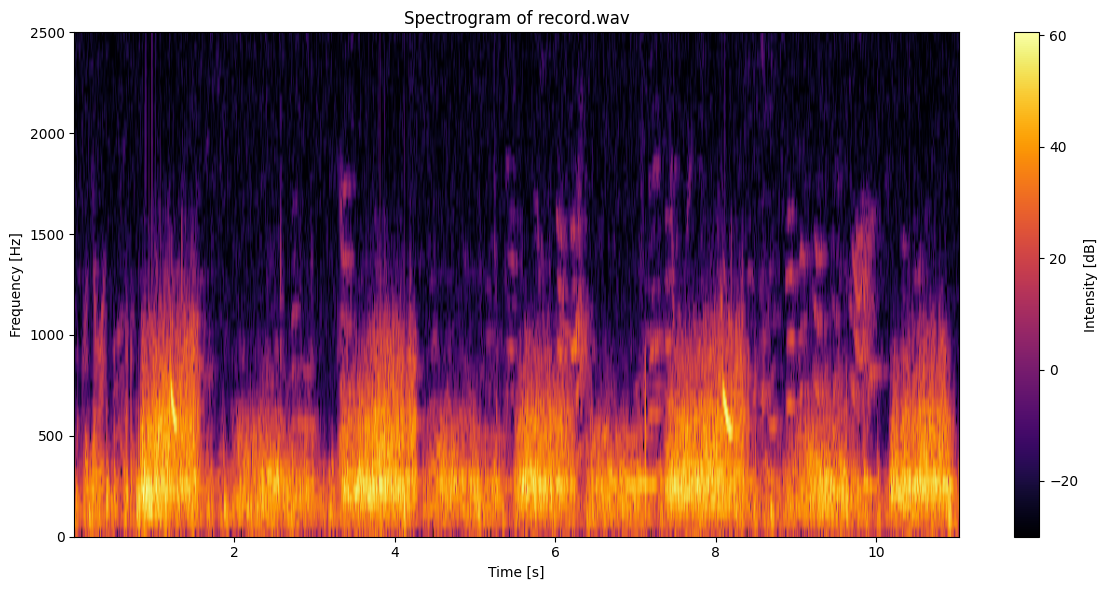
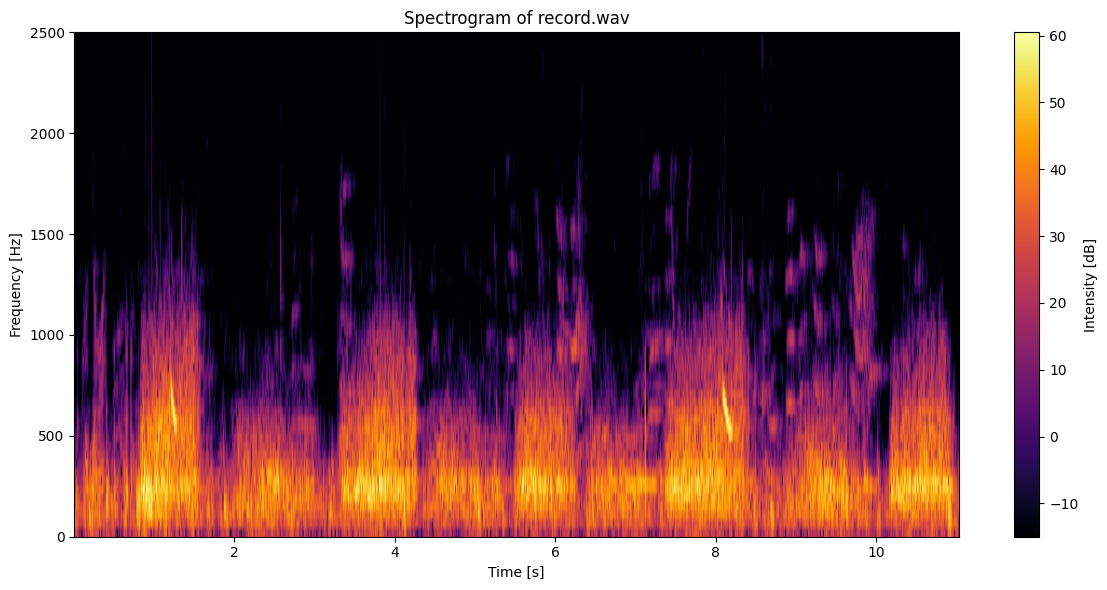
min_db=-15

diff --git a/main.py b/main.py
@@ -69,4 +69,4 @@ def save_spectrogram(filename, output_file, min_hz=None, max_hz=None,
     plt.close(fig)
 
 # Example usage:
-save_spectrogram("record.wav", "spectrogram.png", max_hz=2500, min_db=-30)
+save_spectrogram("record.wav", "spectrogram.png", max_hz=2500, min_db=-15)
